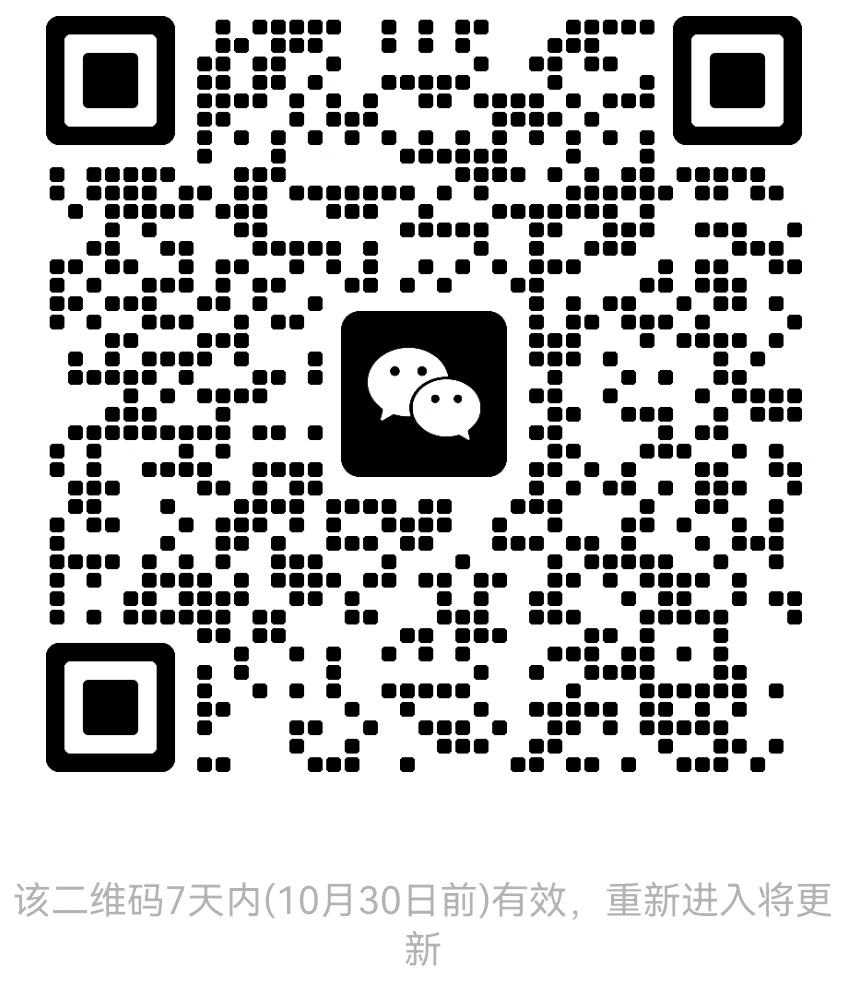
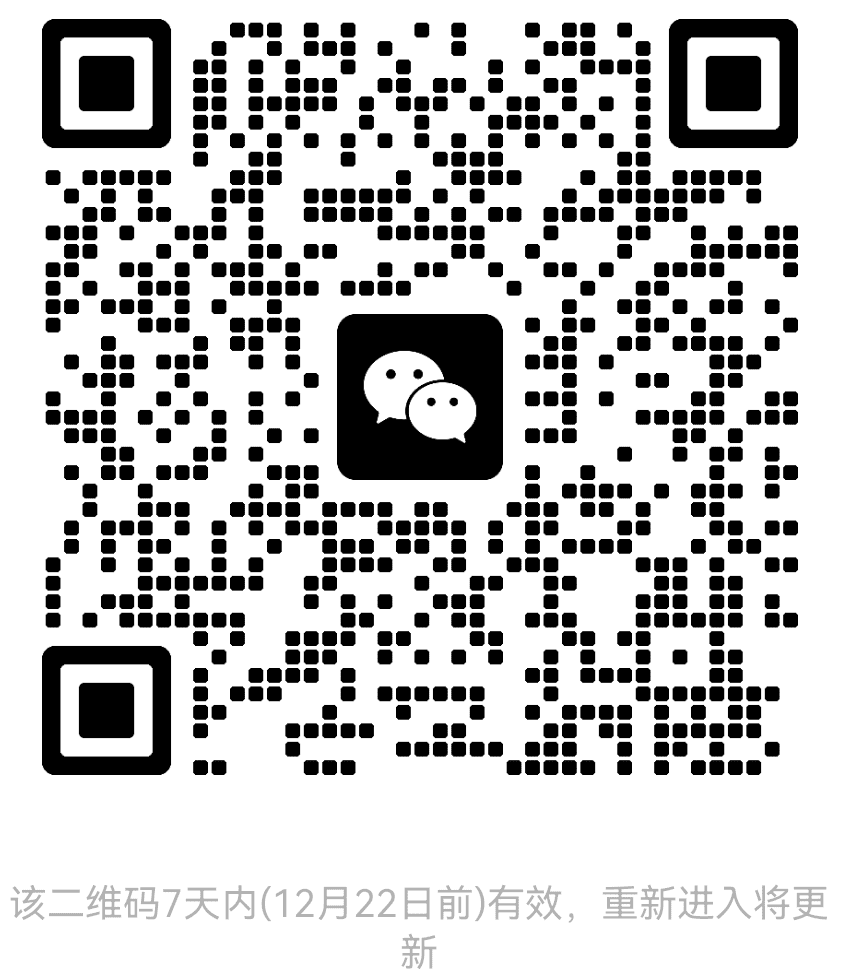
Update release

Changed region(s): [[0.0306, 0.0, 0.9482, 0.7959], [0.0, 0.8878, 0.6729, 1.0], [0.7035, 0.8878, 0.9788, 0.949]]

diff --git a/RELEASE.md b/RELEASE.md
@@ -2,26 +2,28 @@
 
 ## 1.9.0
 
-1. Support Spring cloud Dalston.SR1
-2. Support Spring cloud 2025.1
-3. Support Spring cloud gateway dynamic routing
-4. Support enabling coloring based on domain name
-5. Support loading remote environment variables
-6. Support forwarding to gray scale and unit domain names
-7. Support Jasypt encrypted environment variables
-8. Support timely token refresh for Nacos client versions below 2.5
-9. Support MCP protocol calls for Spring Web
-10. Fix class loading issues and conflicts with other Agent class loaders
-11. Fix Dubbo 3.0 compatibility issues
-12. Fix Dubbo 2.7 registration issues
-13. Fix Nacos gray scale configuration subscription issues
-14. Fix the issue where degradation is not effective for generic calls in Dubbo2, Dubbo3, and SofaRPC
-15. Fix Spring cloud gateway retry not working issue
-16. Fix Spring cloud gateway lane routing issues
-17. Fix stack overflow caused by Spring web request wrapping
-18. Fix Feign compatibility issues
-19. Fix Dubbo zookeeper registry null pointer exception
-20. Fix other issues
+1. Added support for exposing Spring Web services as MCP services
+2. Added support for Nacos grayscale configuration, supporting Nacos 1.x/2.x/3.x SDK
+3. Added support for Spring cloud Dalston.SR1
+4. Added support for Spring cloud 2025.1
+5. Added support for Spring cloud gateway dynamic routing
+6. Added support for enabling coloring based on domain name
+7. Added support for loading remote environment variables
+8. Added support for forwarding to grayscale and unit domain names
+9. Added support for environment variables encrypted with Jasypt
+10. Support for timely token refresh for Nacos client versions below 2.5
+11. Fixed class loading issues and conflicts with other Agent class loading
+12. Fixed Dubbo 3.0 compatibility issues
+13. Fixed Dubbo 2.7 registration issues
+14. Fixed grayscale configuration subscription issues for configuration injection
+15. Fixed generic calls for dubbo2, dubbo3 and sofarpc where degradation doesn't take effect
+16. Fixed Spring cloud gateway retry not taking effect issue
+17. Fixed Spring cloud gateway lane routing issues
+18. Fixed stack overflow issues caused by Spring web wrapped requests
+19. Fixed Feign compatibility issues
+20. Fixed token bucket rate limiting algorithm issues
+21. Fixed Dubbo zookeeper registry null pointer issues
+22. Fixed other issues
 
 ## 1.8.0
 

diff --git a/RELEASE-zh.md b/RELEASE-zh.md
@@ -2,26 +2,28 @@
 
 # 1.9.0
 
-1. 支持 Spring cloud Dalston.SR1
-2. 支持 Spring cloud 2025.1
-3. 支持 Spring cloud gateway 动态路由
-4. 支持根据域名来开启染色
-5. 支持加载远端的环境变量
-6. 支持转发到灰度和单元域名
-7. 支持 Jasypt 加密的环境变量
-8. 支持 Nacos client 2.5 以下版本的令牌及时刷新
-9. 支持 Spring web 的MCP协议调用
-10. 修复类加载问题，以及和其它Agent类加载冲突问题
-11. 修复 Dubbo 3.0 兼容性问题
-12. 修复 Dubbo 2.7 注册问题
-13. 修复 Nacos 灰度配置订阅问题
-14. 修复 dubbo2、dubbo3和sofarpc 的泛化调用，降级不生效的问题
-15. 修复 Spring cloud gateway 重试不生效问题
-16. 修复 Spring cloud gateway 泳道路由问题
-17. 修复 Spring web 包装请求带来的堆栈溢出问题
-18. 修复 Feign 兼容性问题
-19. 修复 Dubbo zookeeper registry 空指针问题
-20. 修复其它问题
+1. 新增支持 Spring Web 服务暴露为MCP服务
+2. 新增支持 Nacos灰度配置，支持Nacos 1.x/2.x/3.x SDK
+3. 新增支持 Spring cloud Dalston.SR1
+4. 新增支持 Spring cloud 2025.1
+5. 新增支持 Spring cloud gateway 动态路由
+6. 新增支持 根据域名来开启染色
+7. 新增支持 加载远端的环境变量
+8. 新增支持 转发到灰度和单元域名
+9. 新增支持 采用Jasypt加密的环境变量
+10. 支持 Nacos client 2.5 以下版本的令牌及时刷新
+11. 修复 类加载以及和其它Agent类加载冲突问题
+12. 修复 Dubbo 3.0 兼容性问题
+13. 修复 Dubbo 2.7 注册问题
+14. 修复 配置注入的灰度配置订阅问题
+15. 修复 dubbo2、dubbo3和sofarpc 的泛化调用，降级不生效的问题
+16. 修复 Spring cloud gateway 重试不生效问题
+17. 修复 Spring cloud gateway 泳道路由问题
+18. 修复 Spring web 包装请求带来的堆栈溢出问题
+19. 修复 Feign 兼容性问题
+20. 修复 令牌桶限流算法问题
+21. 修复 Dubbo zookeeper registry 空指针问题
+22. 修复其它问题
 
 ## 1.8.0
 

diff --git a/README-zh.md b/README-zh.md
@@ -8,7 +8,7 @@
 [![Percentage of issues still open](http://isitmaintained.com/badge/open/jd-opensource/joylive-agent.svg)](http://isitmaintained.com/project/jd-opensource/joylive-agent "Percentage of issues still open")
 [![Slack Status](https://img.shields.io/badge/slack-join_chat-white.svg?logo=slack&style=social)](https://joylivehq.slack.com)
 
-<img src="docs/image/weixin.png" title="该二维码有效期截止到2025/10/30" width="150"  />
+<img src="docs/image/weixin.png" title="该二维码有效期截止到2025/12/22" width="150"  />
 
 [English](./README.md) | 简体中文
 

diff --git a/README.md b/README.md
@@ -8,7 +8,7 @@
 [![Percentage of issues still open](http://isitmaintained.com/badge/open/jd-opensource/joylive-agent.svg)](http://isitmaintained.com/project/jd-opensource/joylive-agent "Percentage of issues still open")
 [![Slack Status](https://img.shields.io/badge/slack-join_chat-white.svg?logo=slack&style=social)](https://joylivehq.slack.com)
 
-<img src="docs/image/weixin.png" title="The QR code is valid until 2025/10/30" width="150" />
+<img src="docs/image/weixin.png" title="The QR code is valid until 2025/12/22" width="150" />
 
 English | [简体中文](./README-zh.md)
 
